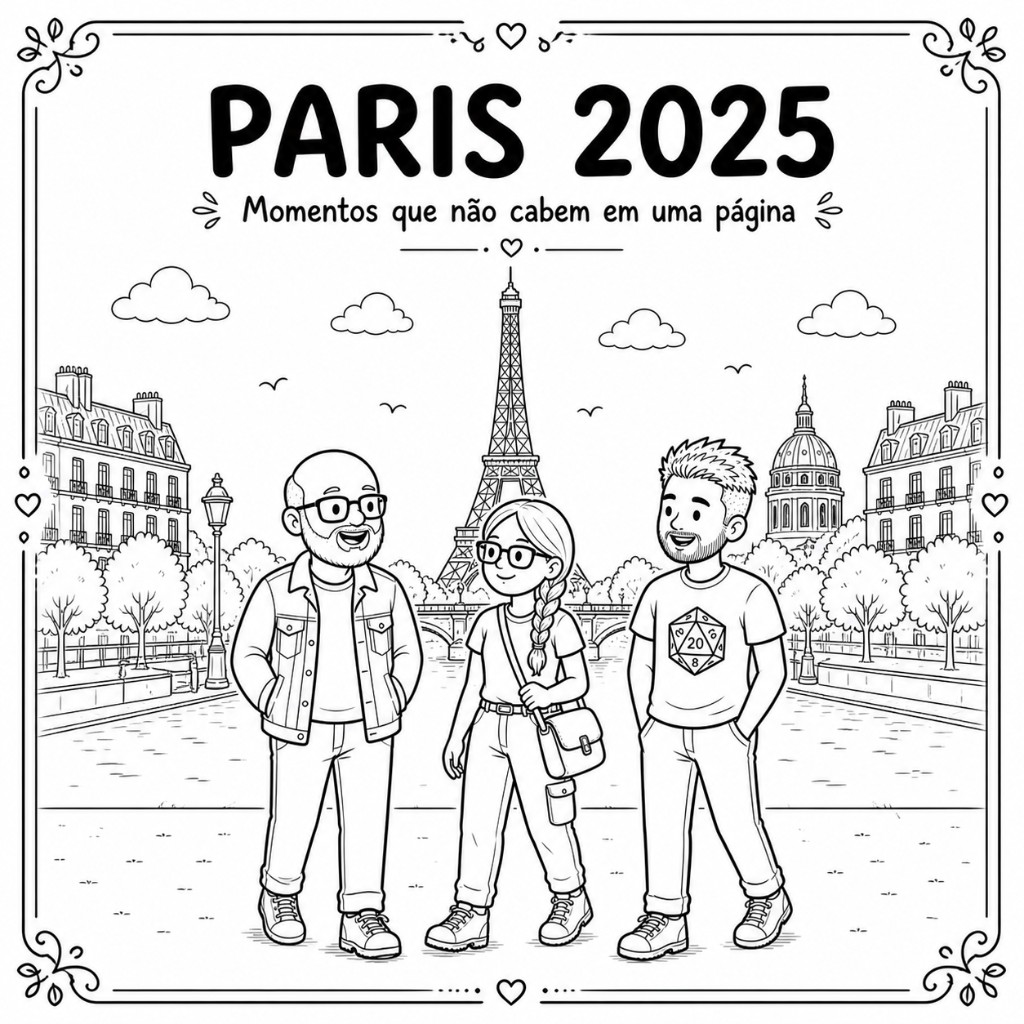
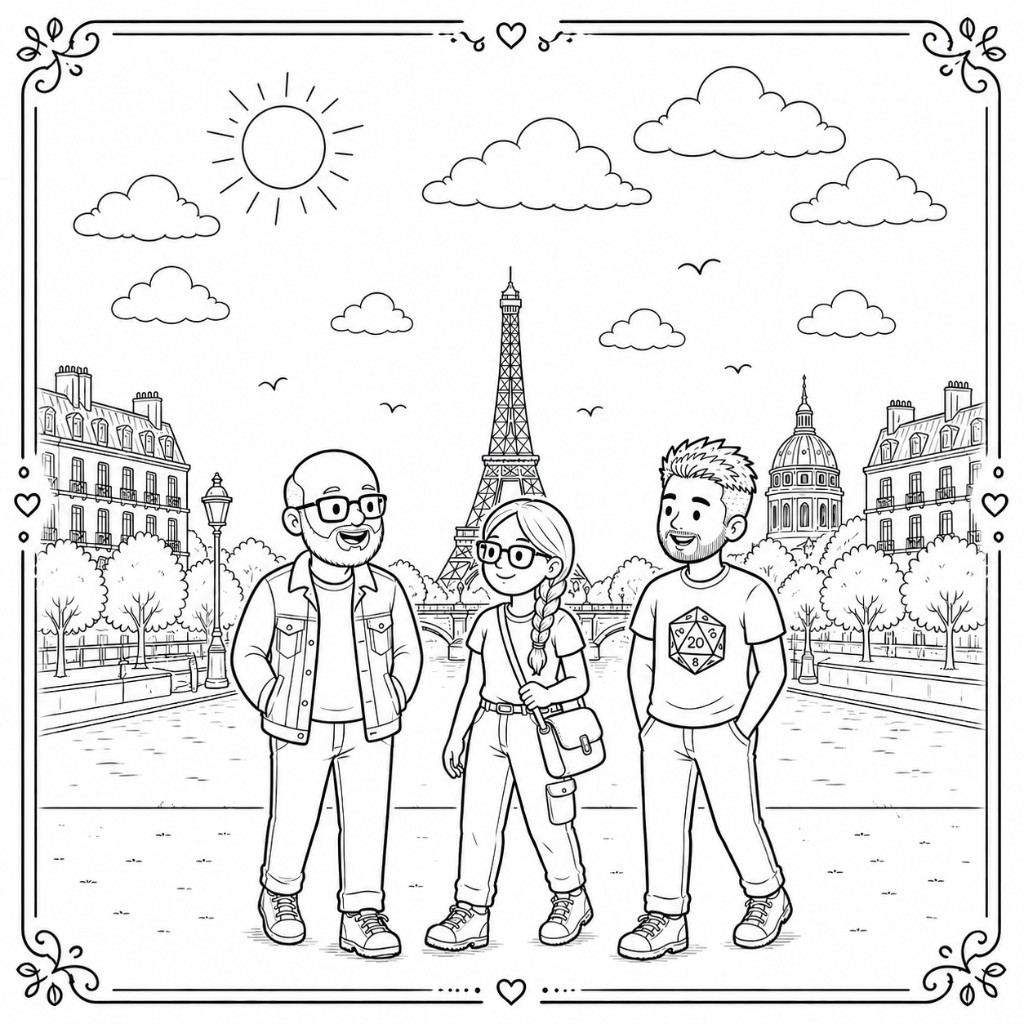
Add cover title and tagline layout with updated artwork.

diff --git a/src/style.css b/src/style.css
@@ -111,18 +111,54 @@ body:has(.page--story) {
   text-wrap: balance;
 }
 
-/* Cover */
+/* Cover — title / art / subtitle stay a tight vertical stack (no giant flex spacer) */
 .page--cover {
   display: flex;
   flex-direction: column;
   min-height: 0;
   flex: 1;
   align-self: stretch;
-  padding: clamp(2px, 1.2vw, 12px);
+  padding-inline: clamp(2px, 1.2vw, 12px);
+  padding-block: clamp(4px, 1.2vw, 10px);
+  gap: 0;
+  justify-content: safe center;
+}
+
+.page__cover-intro {
+  flex-shrink: 0;
+  padding-block: clamp(4px, 1.2vw, 8px) clamp(8px, 2vw, 12px);
+  padding-inline: var(--chapter-title-pad-inline);
+  text-align: center;
+}
+
+.page__cover-title {
+  margin: 0;
+  font-family: "Fredoka", "Quicksand", system-ui, sans-serif;
+  font-weight: 600;
+  font-size: clamp(1.6rem, 1.28rem + 1.85vw, 2.35rem);
+  letter-spacing: 0.065em;
+  line-height: 1.14;
+  text-transform: uppercase;
+  color: var(--text);
+  text-wrap: balance;
+}
+
+.page__cover-subline {
+  flex-shrink: 0;
+  margin: 0;
+  padding-block: clamp(8px, 2vw, 12px) clamp(4px, 1.2vw, 8px);
+  padding-inline: var(--chapter-title-pad-inline);
+  text-align: center;
+  font-size: clamp(0.9375rem, 0.84rem + 0.42vw, 1.0625rem);
+  font-weight: 500;
+  line-height: 1.38;
+  letter-spacing: 0.018em;
+  color: var(--text-muted);
+  text-wrap: balance;
 }
 
 .page--cover .page__media {
-  flex: 1;
+  flex: 0 1 auto;
   display: flex;
   align-items: center;
   justify-content: center;
@@ -135,7 +171,10 @@ body:has(.page--story) {
   inset: auto;
   width: min(100%, calc(var(--page-max-width) + clamp(24px, 6vw, 56px)));
   height: auto;
-  max-height: min(90dvh, calc(100dvh - var(--nav-stack) - 16px));
+  max-height: min(
+    86dvh,
+    calc(100dvh - var(--nav-stack) - clamp(6.5rem, 20vw, 9rem))
+  );
   max-width: 100%;
   object-fit: contain;
   object-position: center;
@@ -143,6 +182,18 @@ body:has(.page--story) {
 
 .page--cover .page__caption {
   display: none;
+}
+
+/* Larger cover type from tablet / desktop widths up */
+@media (min-width: 45rem) {
+  .page__cover-title {
+    font-size: clamp(2.1rem, 1.45rem + 1.5vw, 3rem);
+  }
+
+  .page__cover-subline {
+    font-size: clamp(1.0625rem, 0.92rem + 0.42vw, 1.3125rem);
+    line-height: 1.4;
+  }
 }
 
 /* Story column — title, art & rule stay fixed; only `.page__caption` scrolls */
@@ -313,7 +364,24 @@ body:has(.page--story) {
   }
 
   .page--cover .page__image {
-    max-height: min(82dvh, calc(100dvh - var(--nav-stack) - 12px));
+    max-height: min(
+      68dvh,
+      calc(
+        100dvh - var(--nav-stack) - clamp(6.5rem, 20vw, 9.5rem)
+      )
+    );
+  }
+
+  .page--cover {
+    padding-block: clamp(14px, 4.5vw, 24px);
+  }
+
+  .page__cover-intro {
+    padding-block: clamp(10px, 3.2vw, 18px) clamp(8px, 2.2vw, 14px);
+  }
+
+  .page__cover-subline {
+    padding-block: clamp(8px, 2.2vw, 14px) clamp(12px, 3.5vw, 20px);
   }
 
   .page--story .page__media {

diff --git a/src/main.js b/src/main.js
@@ -36,12 +36,16 @@ if (!pages.length) {
 } else {
   app.innerHTML = `
     <article class="page" aria-live="polite">
+      <div class="page__cover-intro" hidden>
+        <h1 class="page__cover-title"></h1>
+      </div>
       <header class="page__header">
         <h1 class="page__header-text"></h1>
       </header>
       <div class="page__media">
         <img class="page__image" alt="" />
       </div>
+      <p class="page__cover-subline" hidden></p>
       <div class="page__soft-break" aria-hidden="true"></div>
       <div class="page__caption"></div>
     </article>
@@ -53,6 +57,9 @@ if (!pages.length) {
   `;
 
   const pageEl = app.querySelector(".page");
+  const coverIntroEl = app.querySelector(".page__cover-intro");
+  const coverTitleEl = app.querySelector(".page__cover-title");
+  const coverSublineEl = app.querySelector(".page__cover-subline");
   const headerEl = app.querySelector(".page__header");
   const headerTextEl = app.querySelector(".page__header-text");
   const softBreakEl = app.querySelector(".page__soft-break");
@@ -108,6 +115,17 @@ if (!pages.length) {
     imgEl.alt = page.alt ?? "";
 
     if (isCover) {
+      coverIntroEl.hidden = false;
+      coverTitleEl.textContent =
+        typeof page.coverTitle === "string" && page.coverTitle.trim()
+          ? page.coverTitle.trim()
+          : "PARIS 2025";
+      coverSublineEl.hidden = false;
+      coverSublineEl.textContent =
+        typeof page.coverTagline === "string" && page.coverTagline.trim()
+          ? page.coverTagline.trim()
+          : "Momentos que não cabem em uma página";
+
       headerEl.hidden = true;
 
       softBreakEl.hidden = true;
@@ -115,6 +133,9 @@ if (!pages.length) {
       captionEl.hidden = true;
       captionEl.removeAttribute("aria-label");
     } else {
+      coverIntroEl.hidden = true;
+      coverSublineEl.hidden = true;
+
       headerEl.hidden = false;
 
       headerTextEl.textContent = resolveChapterTitle(index);

diff --git a/index.html b/index.html
@@ -6,7 +6,7 @@
     <link rel="preconnect" href="https://fonts.googleapis.com" />
     <link rel="preconnect" href="https://fonts.gstatic.com" crossorigin />
     <link
-      href="https://fonts.googleapis.com/css2?family=Quicksand:wght@400;500;600;700&display=swap"
+      href="https://fonts.googleapis.com/css2?family=Fredoka:wght@500;600&family=Quicksand:wght@400;500;600;700&display=swap"
       rel="stylesheet"
     />
     <title>Paris Book</title>
